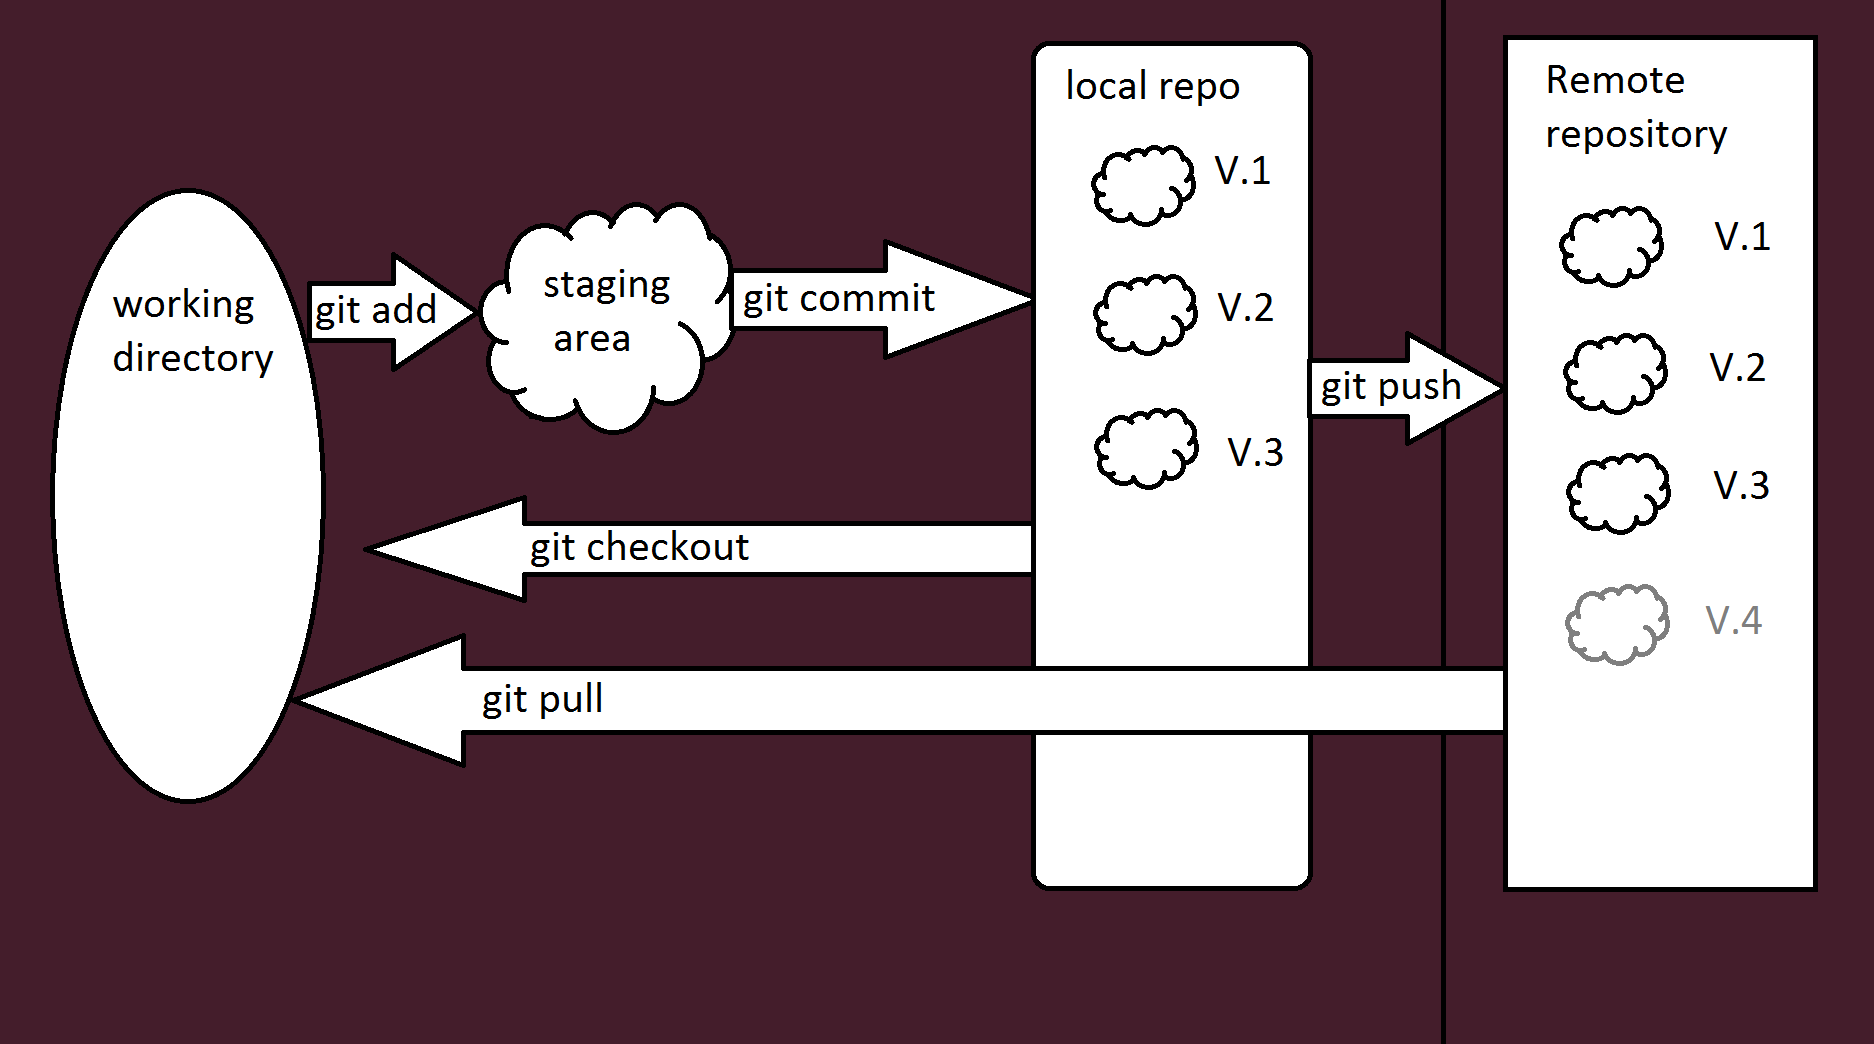
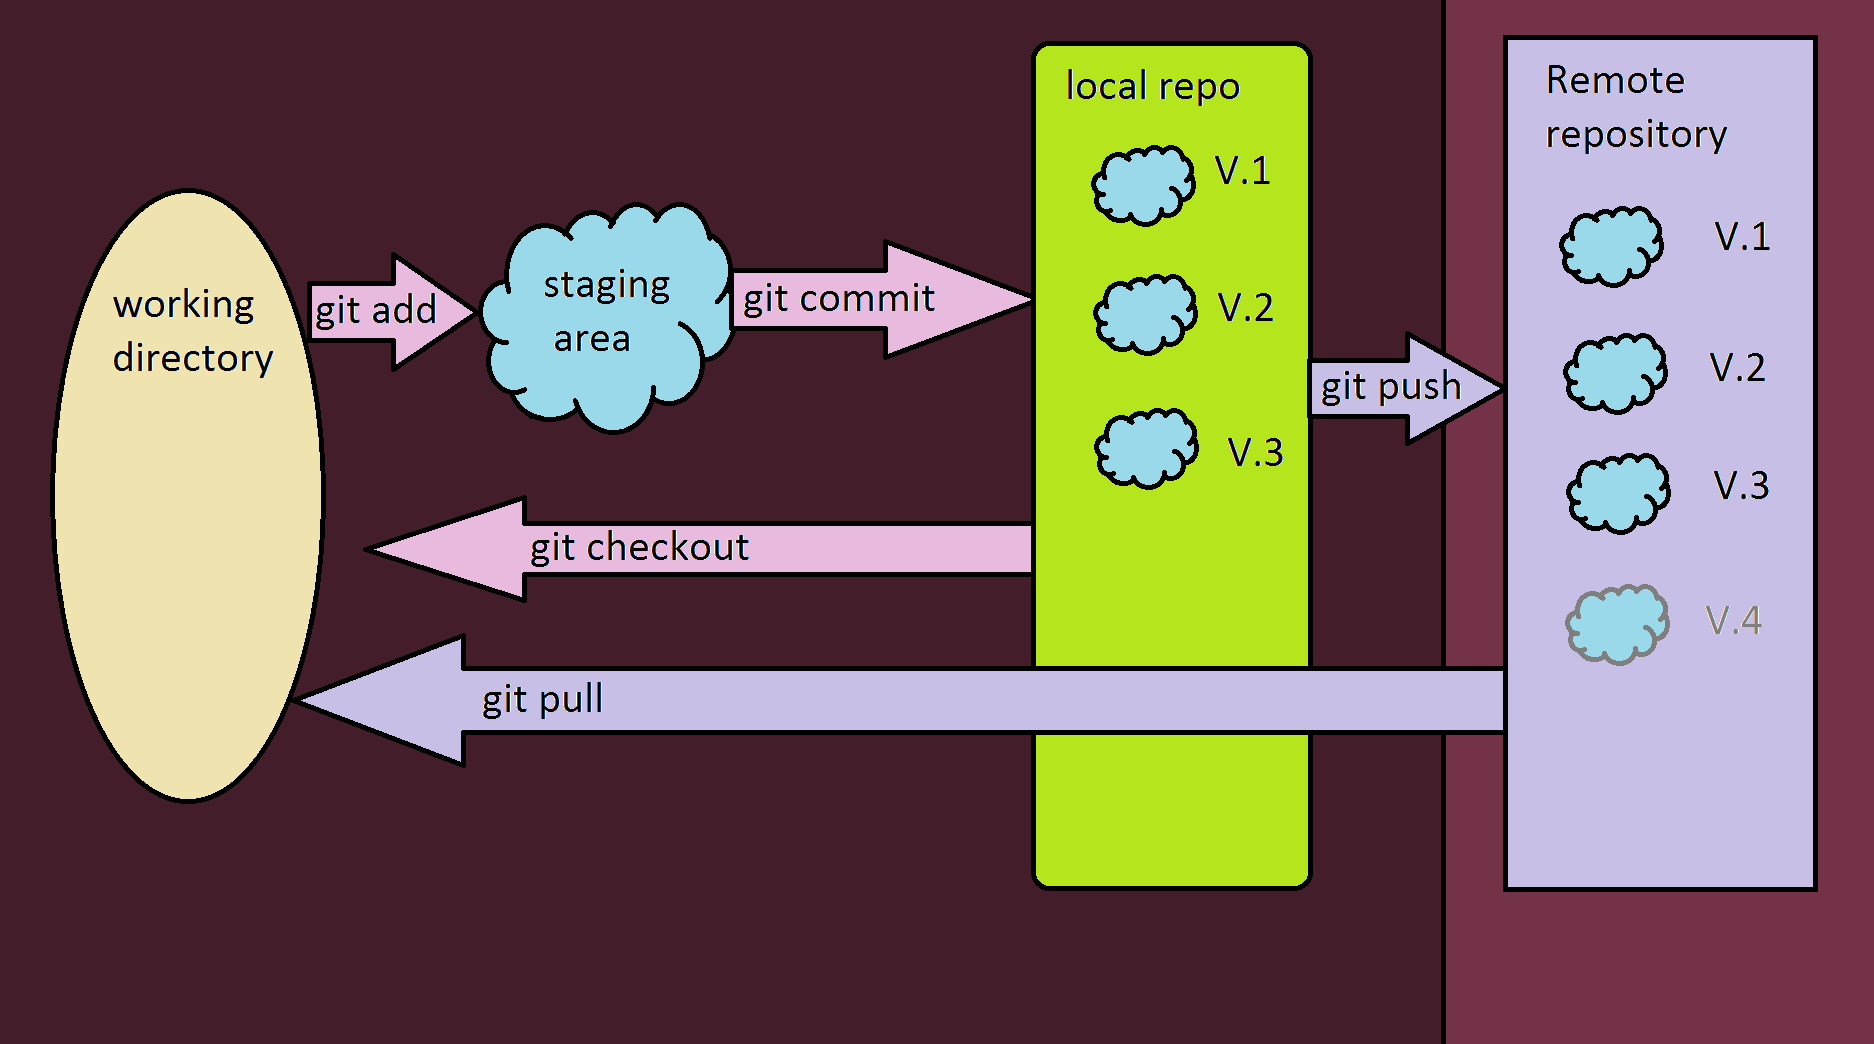
clolorise image and change in slide

diff --git a/index.html b/index.html
@@ -68,7 +68,7 @@
 				</section>
 
 				<section>
-					<img src="img/git-local-remotes.png">
+					<img src="img/gitAndGithubWorkflow.png">
 				</section>
 
 				<section>
